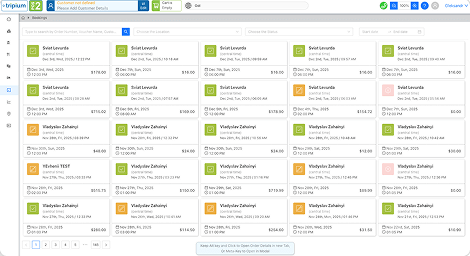
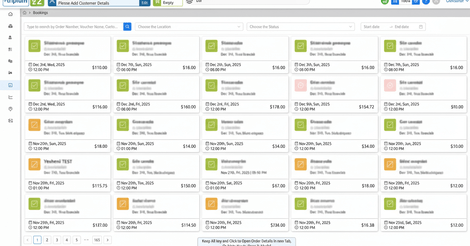
Update images

diff --git a/tripium/resources/views/main/products.blade.php b/tripium/resources/views/main/products.blade.php
@@ -7,7 +7,7 @@
         <div class="products row mb-sm-4 mb-3 justify-content-center">
             <div class="col-lg-4 col-sm-6 mb-3">
                 <div class="it p-md-4 p-3">
-                    <img src="/img/booking-interface-1.png" alt="Booking interface" class="mb-sm-5 mb-4"/>
+                    <img src="/img/product-1.png" alt="Booking interface" class="mb-sm-5 mb-4"/>
                     <div class="name h3 mb-3">The Destination Platform</div>
                     <div class="description">End-to-end ticketing, packaging, POS, and schedule management
                         for hotels, venues, and DMOs.
@@ -16,7 +16,7 @@
             </div>
             <div class="col-lg-4 col-sm-6 mb-3">
                 <div class="it p-md-4 p-3">
-                    <img src="/img/booking-interface-1.png" alt="Booking interface" class="mb-sm-5 mb-4"/>
+                    <img src="/img/product-2.png" alt="Booking interface" class="mb-sm-5 mb-4"/>
                     <div class="name h3 mb-3">Destinations and Tickets Inventory</div>
                     <div class="description">curated shows, attractions, and activities in supported markets
                         (e.g., Branson, Gatlinburg, Pigeon Forge), ready to sell.
@@ -25,7 +25,7 @@
             </div>
             <div class="col-lg-4 col-sm-6 mb-3">
                 <div class="it p-md-4 p-3">
-                    <img src="/img/booking-interface-1.png" alt="Booking interface" class="mb-sm-5 mb-4"/>
+                    <img src="/img/product-3.png" alt="Booking interface" class="mb-sm-5 mb-4"/>
                     <div class="name h3 mb-3">White-label solution</div>
                     <div class="description">custom booking engines that match a partner’s brand, embedded
                         seamlessly into their website.

diff --git a/tripium/resources/views/main/platform.blade.php b/tripium/resources/views/main/platform.blade.php
@@ -38,13 +38,13 @@
                                     <img src="/img/booking-interface-1.png" alt="Booking interface"/>
                                 </li>
                                 <li class="splide__slide">
-                                    <img src="/img/booking-interface-1.png" alt="Booking interface"/>
+                                    <img src="/img/booking-interface-2.png" alt="Booking interface"/>
                                 </li>
                                 <li class="splide__slide">
                                     <img src="/img/booking-interface-1.png" alt="Booking interface"/>
                                 </li>
                                 <li class="splide__slide">
-                                    <img src="/img/booking-interface-1.png" alt="Booking interface"/>
+                                    <img src="/img/booking-interface-2.png" alt="Booking interface"/>
                                 </li>
                             </ul>
                         </div>
